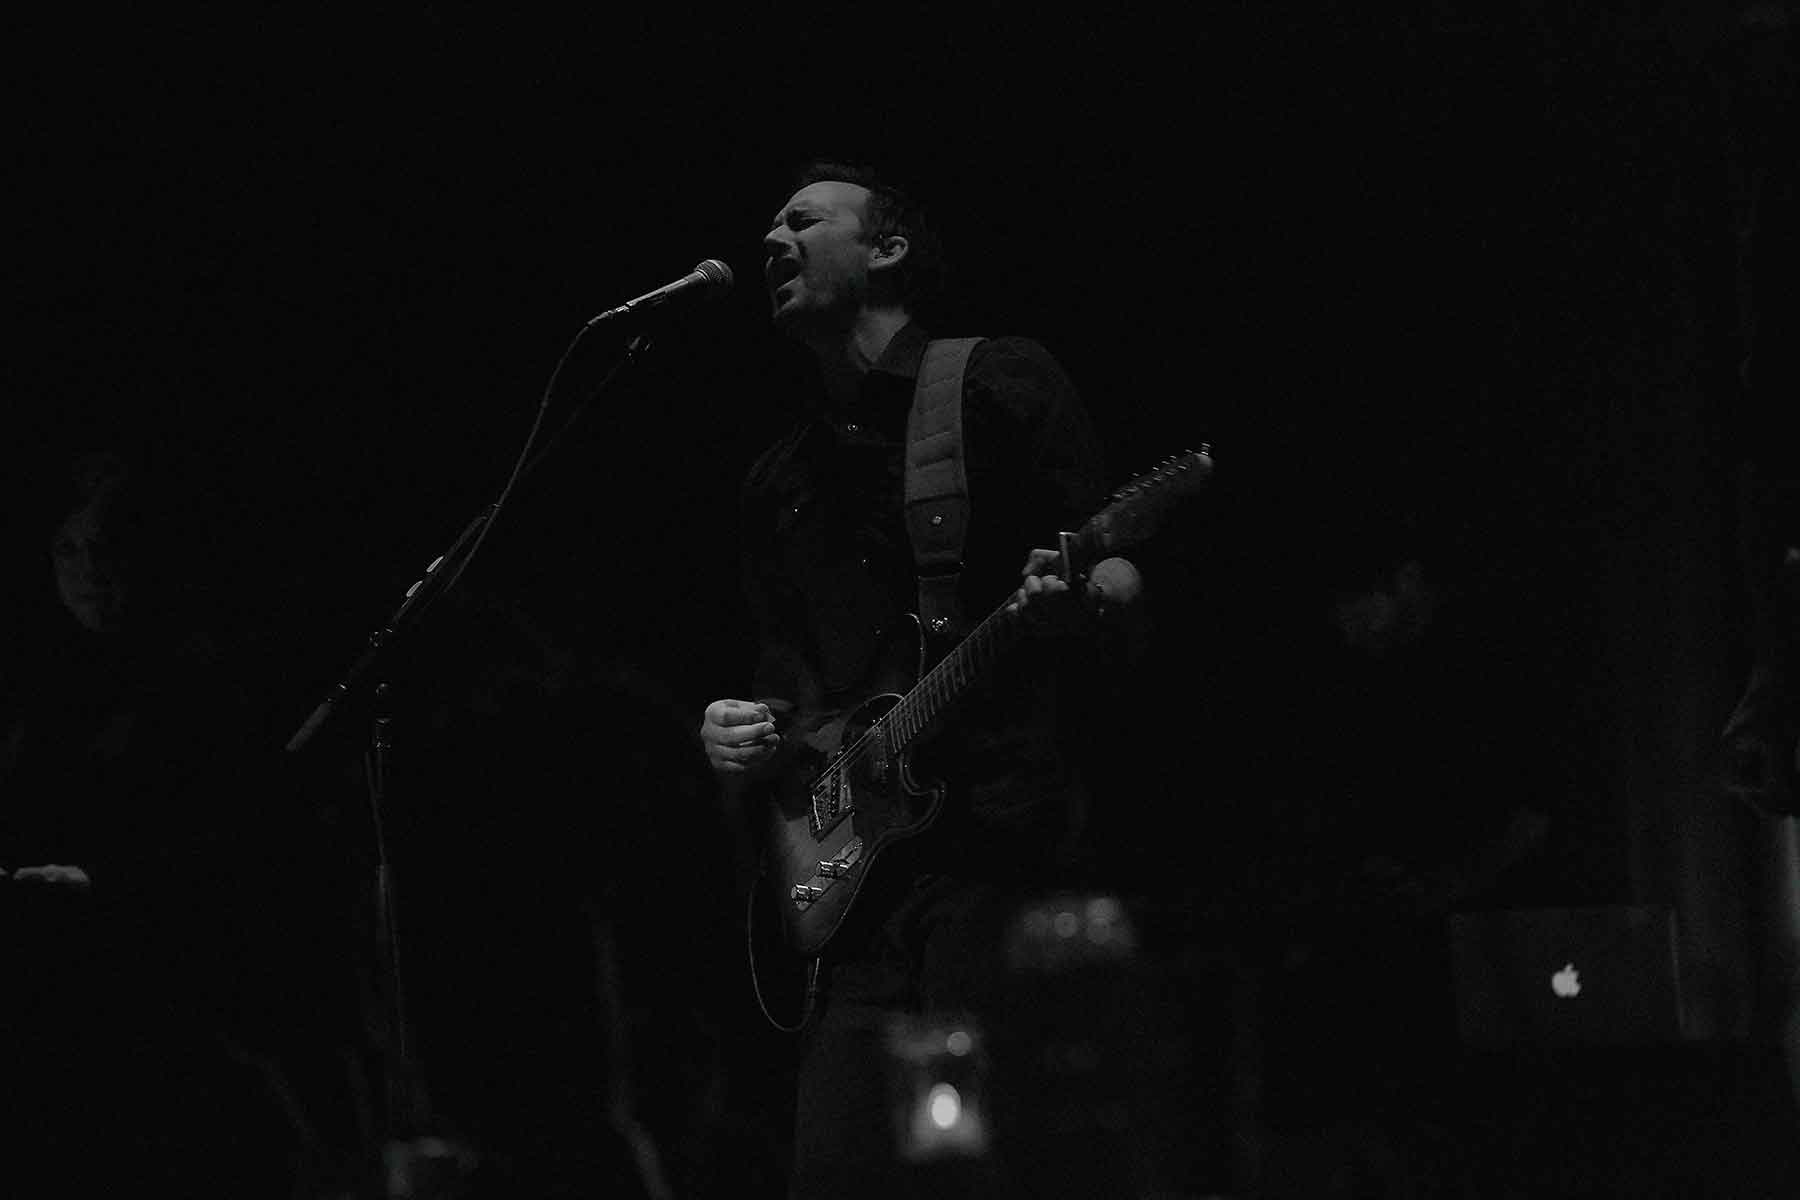
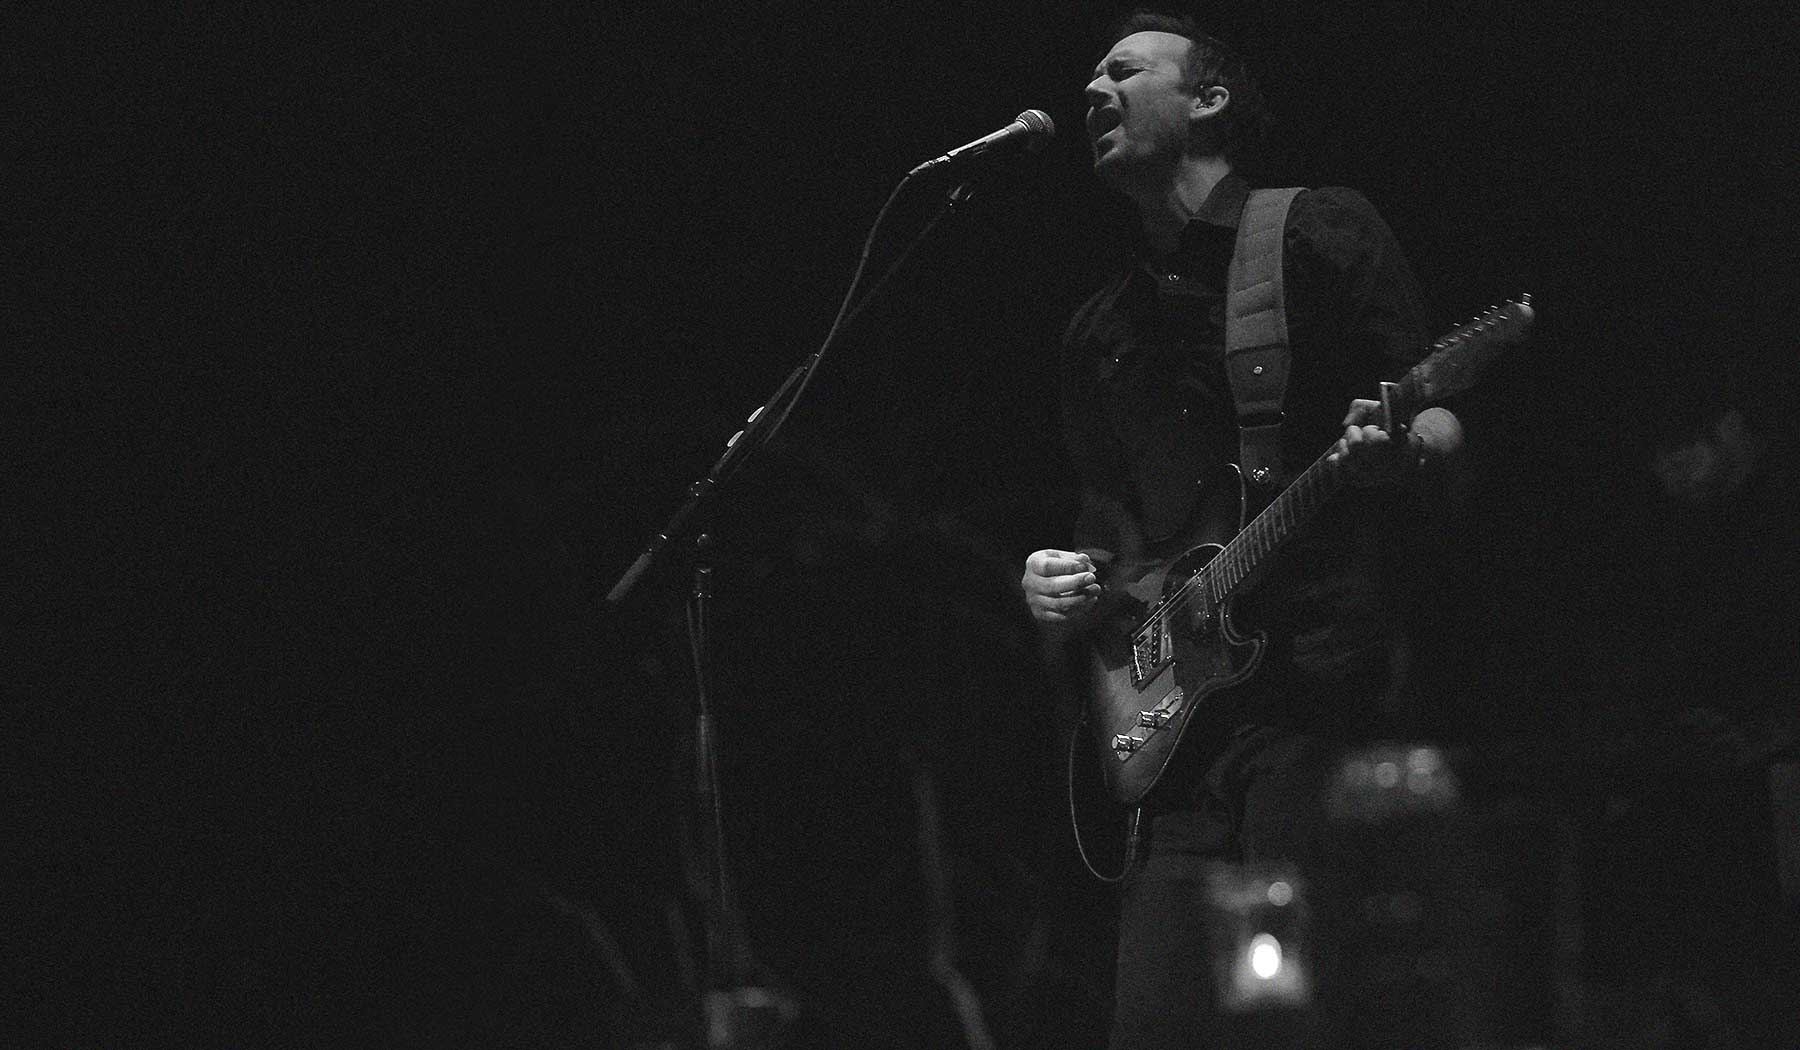
updates to hero

diff --git a/app/assets/stylesheets/welcome.scss b/app/assets/stylesheets/welcome.scss
@@ -165,7 +165,7 @@ h5 {
 	background-image: url('jwaftg.jpg');
 	background-repeat: no-repeat;
 	background-size: cover;
-	background-position: center center;
+	background-position: top center;
 }
 
 #services {
